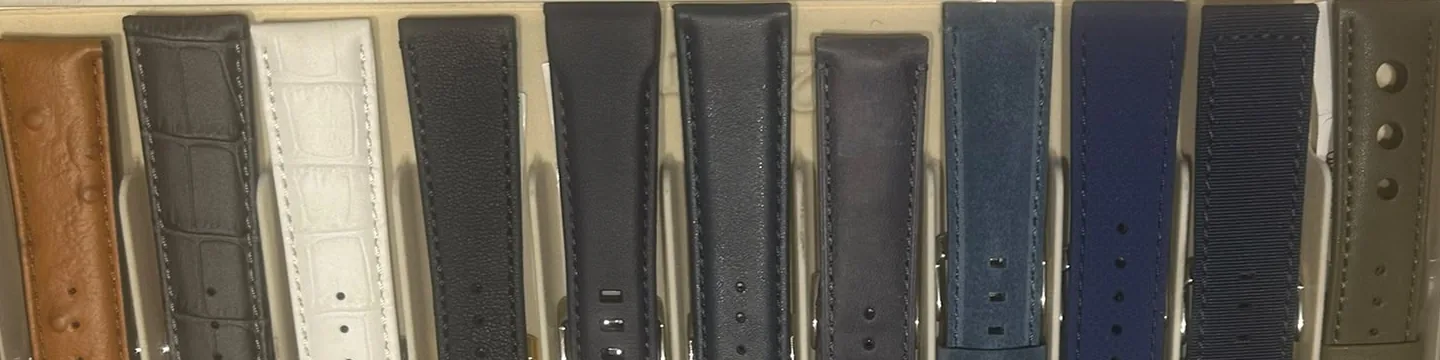
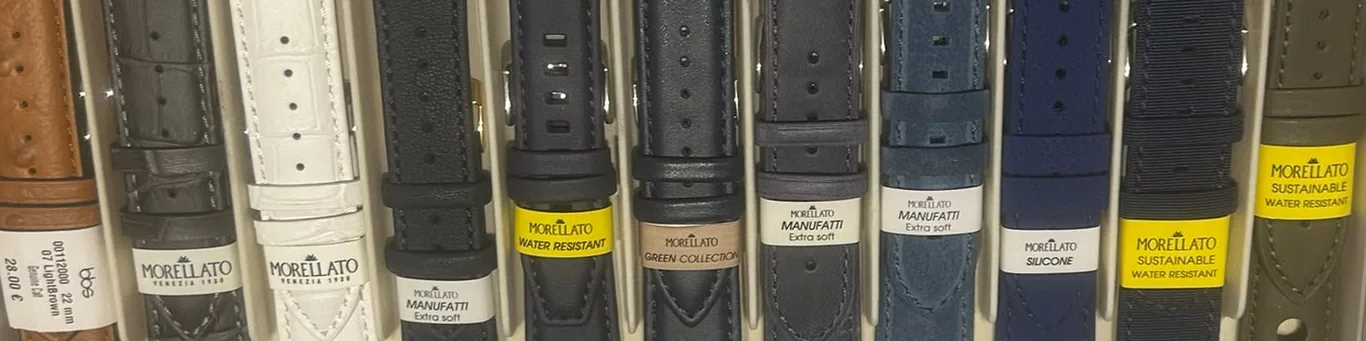
New strap photo crop: Morellato stickers, buckles and price tag visible
- bandjes.webp recropped from bandjes volle foto.jpeg (rotated, straps upright,
  stickers and buckles in view, no tray or table edge); same 4:1 size and frame
- CLAUDE.md and design-system.md: document the new crop rule (replaces the
  "no labels, no price sticker" rule)

diff --git a/design-system.md b/design-system.md
@@ -120,6 +120,8 @@ Files are Eris's IMG_ numbers. Crop all to landscape and give them one consisten
 | Hero | IMG_3664 | Hands at the bench, loupe, knife, parts drawers, his own watch on his wrist. Full-bleed, one short headline on top, nothing else. |
 | 1926 / story | IMG_3666 | Crop tight on hands and watch. Set "1926" large as a typographic element; no historic photo exists. |
 | Repairs | IMG_3665 + bandjes volle foto.jpeg | Tweezers in the open watch, then the strap tray (straps and batteries are why locals walk in). This section gets the one memorable motion moment. |
+
+Strap photo crop (bandjes.webp): rotated so the straps stand upright, cropped so the Morellato stickers and buckles are clearly visible. The price tag on the brown strap may show, since it is really in the photo. The hole-punched tips may be cut off. No tray edge or table. Warm filter comes from CSS, not baked in. This replaces the earlier "no labels, no price sticker" rule.
 | The watches | IMG_3672 | Junghans in its box, the single watch close-up. Optional second: IMG_3667 (Mondaine). |
 | Visit | IMG_3660 | Curved wall of cases. Crop off the bottom third (carpet). Beside it: address, hours, phone, map. Alternative: IMG_3673 (counter and workbench). |
 

diff --git a/Top Time website -claude/CLAUDE.md b/Top Time website -claude/CLAUDE.md
@@ -8,6 +8,7 @@ Statische one-pager: `index.html` (plus `privacy.html`), `css/style.css`, `js/ma
 - Openingstijden: `TOPTIME.hours` in `main.js` (tabel, openingsstatus en JSON-LD volgen daaruit). De tabel en JSON-LD in de HTML moeten daarmee overeenkomen.
 - Foto's krijgen de gouden lijst + schaduw via `.photo`. Dienstenfoto's: `.service__photo` (bandjes en reparatie: `--straps`, `--repair`, volle breedte). De reparatiefoto zoomt langzaam uit bij scrollen (`data-repair-zoom`, alleen als `prefers-reduced-motion` niet aan staat).
 - Foto's staan in `assets/images/` (zonder spaties in de naam). Bandjes: `bandjes.webp` (uitsnede van `bandjes volle foto.jpeg` / `bandjes.jpg`, 90° gedraaid, de warme filter zit in de CSS, niet in het bestand).
+- Bandjesfoto-uitsnede: de Morellato-stickers en de gespen horen goed zichtbaar te zijn; het prijskaartje op het bruine bandje (28,00 €) mag in beeld, want het staat echt in de foto. De punten met de gaatjes mogen deels wegvallen. Geen rand van de bak of tafel. Dit vervangt de oude regel "geen labels, geen prijssticker".
 
 ## Bedrijfsgegevens
 - Top Time, Spijkerboorsteeg 10, 7411 JG Deventer. Tel (0570) 61 21 17, `tel:+31570612117`. E-mail Info@toptimejuwelier.nl. KvK 38009063.
